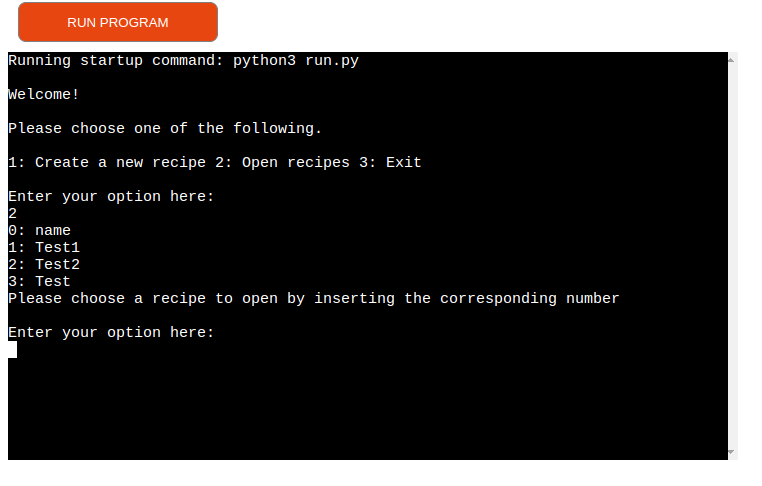
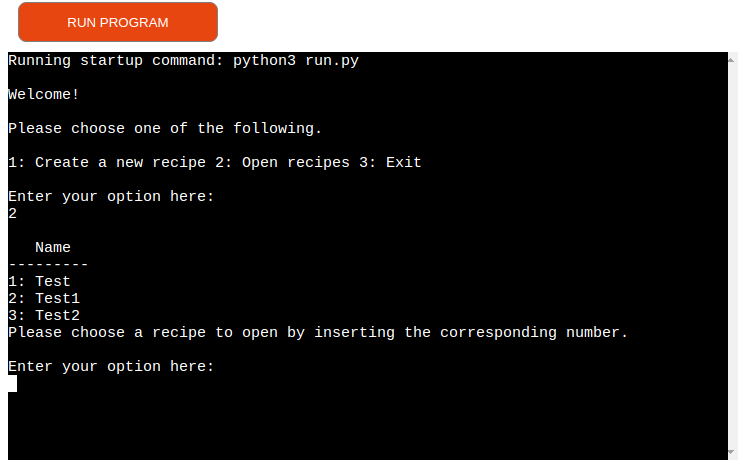
Docs: add content to TESTING.md, update recipes_library image

diff --git a/TESTING.md b/TESTING.md
@@ -1,3 +1,13 @@
+# Contents 
+
+* [CI python linter](#jshint)
+* [Manual Testing](#manual-testing)
+* [Bugs](#bugs)
+  * [Solved Bugs](#solved-bugs)
+
+## CI Python linter
+![](/documentation/images/testing/pep8_linter.png)
+
 ## Manual Testing
 
 |Feature|Expected Outcome|Testing Performed|Result|Pass/Fail|
@@ -7,7 +17,7 @@ Main Menu
 ||||||
 |--|--|--|--|--|
 |Choose one option from the main menu: 1: Create a new recipe 2: Open recipes 3: Exit for exiting the game|Call the corresponding function|Input "1"|Create a recipe function called|[PASS](/documentation/images/features/recipe_name.png)|
-||Call the corresponding function|Input "2"|Print recipe function called|[PASS](/documentation/images/features/main_menu_open_recipes.png)|
+||Call the corresponding function|Input "2"|Print recipe function called|[PASS](/documentation/images/features/recipes_library.png)|
 ||Call the corresponding function|Input "3"|Exited program|PASS|
 
 Main Menu Validation
@@ -49,3 +59,17 @@ Open recipes
 ||||||
 |--|--|--|--|--|
 |Empry library|Print message "Your library is empty. Please create a new recipe"|Selected "2" when library(google sheet) was empty|Message printed|[PASS](/documentation/images/features/test_empty_list.png)|
+
+## Bugs
+
+### Solved Bugs
+|#|Bug|Solution|
+|--|--|--|
+|1|I wasn't able to print the last created recipe without exiting the program|The variable recipe_list was global, I had to make it local variable in the function create_recipe() and clear the list before exiting the function|
+|2| Recipe's list(variable column) in function get_recipe_index_to_print() printed the list starting from index 0|I had to add the index that I wanted to start from.
+``` python
+ print("-- Name")
+ for i in column[1:]:
+    index = column.index(i)
+    print(f"{index}: {i}")
+```
